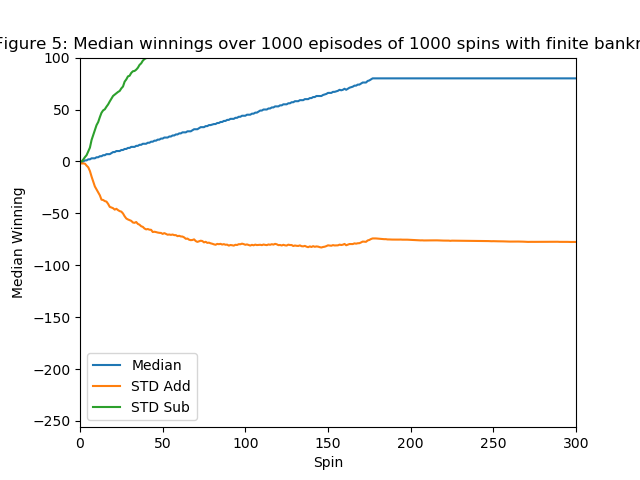
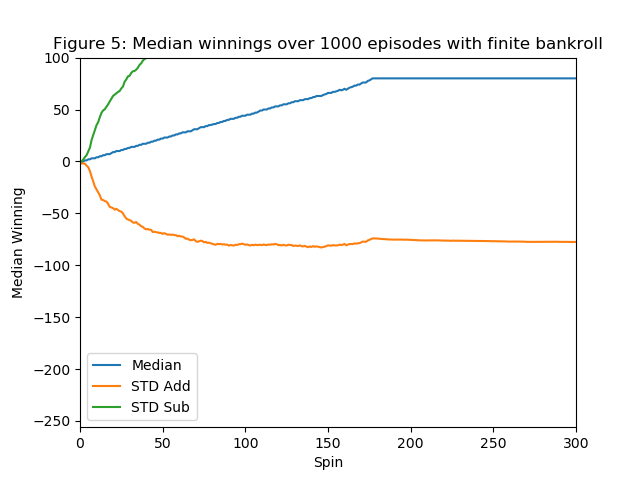
updated figure labels

Changed region(s): [[0.0, 0.0625, 1.0, 0.125]]

diff --git a/martingale/martingale.py b/martingale/martingale.py
@@ -153,7 +153,7 @@ def experiment_1_2and3():
     plt.plot(means, label="Mean")
     plt.plot(bolinger1, label="STD Add")
     plt.plot(bolinger2, label="STD Sub")
-    plt.title("Figure 2: Mean winnings over 1000 episodes of 1000 spins with infinite bankroll")
+    plt.title("Figure 2: Mean winnings over 1000 episodes with infinite bankroll")
     plt.xlabel("Spin")
     plt.ylabel("Mean Winning")
     plt.xlim(0, 300)
@@ -170,7 +170,7 @@ def experiment_1_2and3():
     plt.plot(median, label="Median")
     plt.plot(bolinger1, label="STD Add")
     plt.plot(bolinger2, label="STD Sub")
-    plt.title("Figure 3: Median winnings over 1000 episodes of 1000 spins with infinite bankroll")
+    plt.title("Figure 3: Median winnings over 1000 episodes with infinite bankroll")
     plt.xlabel("Spin")
     plt.ylabel("Median Winning")
     plt.xlim(0, 300)
@@ -192,7 +192,7 @@ def experiment_1_4and5():
     plt.plot(means, label="Mean")
     plt.plot(bolinger1, label="STD Add")
     plt.plot(bolinger2, label="STD Sub")
-    plt.title("Figure 4: Mean winnings over 1000 episodes of 1000 spins with finite bankroll")
+    plt.title("Figure 4: Mean winnings over 1000 episodes of with finite bankroll")
     plt.xlabel("Spin")
     plt.ylabel("Mean Winning")
     plt.xlim(0, 300)
@@ -209,7 +209,7 @@ def experiment_1_4and5():
     plt.plot(median, label="Median")
     plt.plot(bolinger1, label="STD Add")
     plt.plot(bolinger2, label="STD Sub")
-    plt.title("Figure 5: Median winnings over 1000 episodes of 1000 spins with finite bankroll")
+    plt.title("Figure 5: Median winnings over 1000 episodes with finite bankroll")
     plt.xlabel("Spin")
     plt.ylabel("Median Winning")
     plt.xlim(0, 300)
